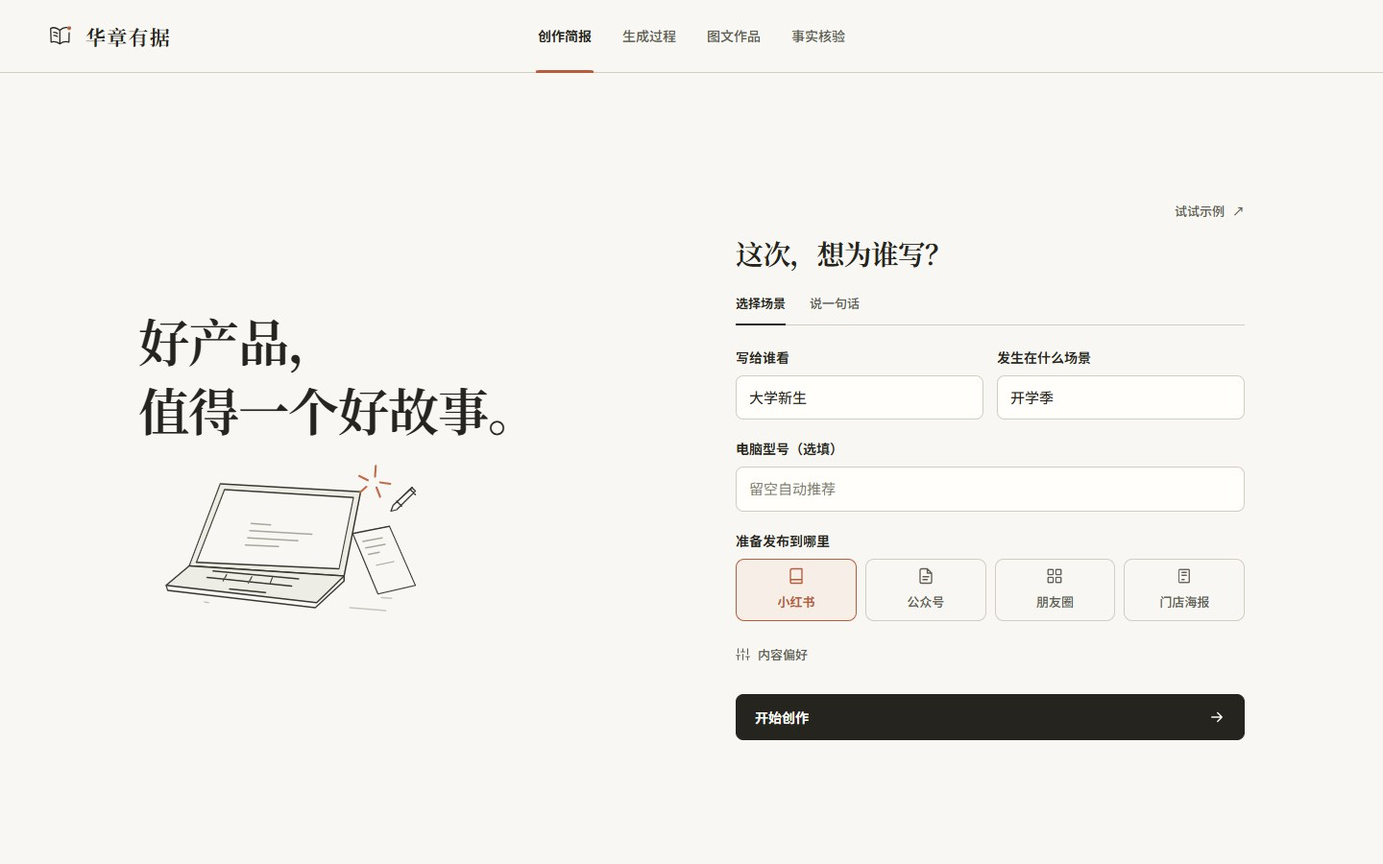
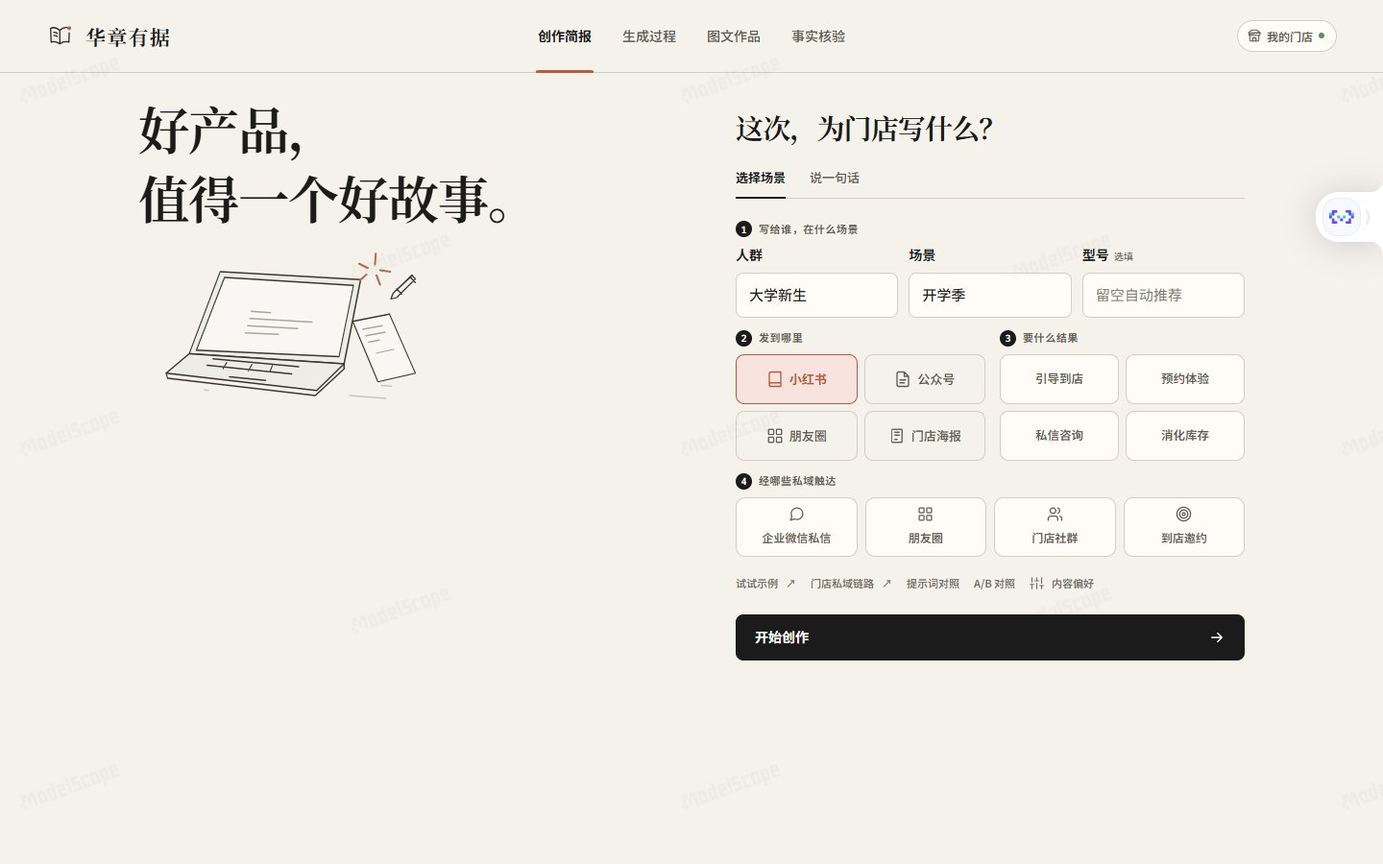
Update gallery screenshots from ModelScope and streamline README with feature-first presentation

diff --git a/src/mvp/web/about.html b/src/mvp/web/about.html
@@ -42,12 +42,14 @@
       <div><h2>02 看 Agent 接力</h2><p>单环节轮转展示场景、资料来源、内容策划、写作与审核，实时显示进度与耗时。</p></div>
       <div><h2>03 核对后带走</h2><p>检查事实来源和审核意见，再复制正文或导出含图片的 HTML。</p></div>
     </section>
-    <section aria-labelledby="gallery-title"><h2 id="gallery-title">真实界面</h2><p>以下为 v1.1 界面的真实截图，作品来自已完成的本地生成任务。</p>
+    <section aria-labelledby="gallery-title"><h2 id="gallery-title">真实界面</h2><p>以下为真实界面的截图，作品来自已完成的生成任务。</p>
       <figure><img src="/static/gallery/welcome.jpg" width="1440" height="900" alt="简约开屏：Logo、华章有据、一句话介绍与进入体验"><figcaption>独立开屏 · 简单认识项目，点击进入工作台。</figcaption></figure>
-      <figure><img src="/static/gallery/brief.jpg" width="1440" height="900" loading="lazy" alt="创作简报：选择人群、场景、平台与产品"><figcaption>创作简报 · 结构化选择与一句话输入都可用。</figcaption></figure>
-      <figure><img src="/static/gallery/workflow.jpg" width="1440" height="900" loading="lazy" alt="Bot 单环节轮转、实时进展与资料来源"><figcaption>生成过程 · 查看各阶段状态、真实耗时与执行详情。</figcaption></figure>
-      <figure><img src="/static/gallery/result.jpg" width="1440" height="900" loading="lazy" alt="实际生成的小红书图文作品与审核摘要"><figcaption>图文作品 · 平台版式预览，支持修改、复制与 HTML 导出。</figcaption></figure>
+      <figure><img src="/static/gallery/clarify.jpg" width="1440" height="900" loading="lazy" alt="需求追问：居中磨砂面板，选中即继续"><figcaption>需求追问 · 居中磨砂面板，单轮关键追问，选中即继续。</figcaption></figure>
+      <figure><img src="/static/gallery/brief.jpg" width="1440" height="900" loading="lazy" alt="创作简报：选择人群、场景、平台、经营目标与私域触点"><figcaption>创作简报 · 人群场景、发布平台、经营目标与私域触点一屏配置。</figcaption></figure>
+      <figure><img src="/static/gallery/workflow.jpg" width="1440" height="900" loading="lazy" alt="Bot 单环节轮转、实时进展与资料来源"><figcaption>生成过程 · 查看各阶段状态、实时耗时与执行详情。</figcaption></figure>
+      <figure><img src="/static/gallery/result.jpg" width="1440" height="900" loading="lazy" alt="实际生成的小红书图文作品与打磨选项"><figcaption>图文作品 · 平台版式预览，支持打磨修改、复制正文与 HTML 导出。</figcaption></figure>
       <figure><img src="/static/gallery/evidence.jpg" width="1440" height="900" loading="lazy" alt="产品事实引用与对应型号的登记配图"><figcaption>事实核验 · 产品事实标注来源，配图限定为对应型号的登记文件。</figcaption></figure>
+      <figure><img src="/static/gallery/store.jpg" width="1440" height="900" loading="lazy" alt="我的门店看板：经营数据、企微动态、私域触点与历史稿件"><figcaption>我的门店 · 门店看板、动态筛选、私域触点与历史稿件。</figcaption></figure>
     </section>
     <section class="about-note"><h2>模型与演示</h2><p>解析、推荐、证据选择、内容策划、写作、定向修订和文字审核统一使用魔搭 DeepSeek-V4.1-Flash-1017，评审使用独立上下文。生图和图片核验使用各自的专用模型。需求问询每轮只确认一点，最多两轮，选项贴合题目与实际场景。</p><p>演示账号由作者单独提供；访问者无需注册魔搭或配置 API。当前同时最多生成一个任务，默认总预算上限 240 秒，完成即返回；实际耗时随模型排队和修订变化，审核未完成会明确提示。</p><p>资料基准日为 2026-10-17。使用预置产品资料包，尚未接入 IMA 实时知识库。生成内容发布前仍需人工复核；本应用不会自动发布到社交平台。</p><p><a href="/">用演示账号进入体验 →</a></p></section>
   </main>

diff --git a/src/mvp/app.py b/src/mvp/app.py
@@ -88,7 +88,8 @@ async def access_control(request: Request, call_next):
     public = {"/healthz", "/about", "/login", "/api/login", "/static/style.css", "/static/login.css", "/static/fonts.css", "/static/typography.css", "/static/mobile.css",
               "/static/login.js", "/static/brand/logo-mark.svg", "/static/brand/app-icon.svg",
               "/static/gallery/welcome.jpg", "/static/gallery/brief.jpg", "/static/gallery/workflow.jpg",
-              "/static/gallery/result.jpg", "/static/gallery/evidence.jpg"}
+              "/static/gallery/result.jpg", "/static/gallery/evidence.jpg", "/static/gallery/clarify.jpg",
+              "/static/gallery/store.jpg"}
     public_font = request.url.path.startswith("/static/fonts/") and request.url.path.endswith((".woff2", "/OFL.txt"))
     if settings.AUTH_PASSWORD and request.url.path not in public and not public_font:
         if not valid_session(request.cookies.get("studio-session", "")):

diff --git a/README.md b/README.md
@@ -1,139 +1,99 @@
-# 华章有据
+# 华章有据 · 华为电脑营销图文工作台
 
-**从产品知识出发，生成有据可查的华为电脑营销图文。**
+> 从产品知识出发，为门店与私域生成有据可查的华为电脑营销图文。
 
-v1.2.0（version1.2）· 两轮问询与评审减负。[在线体验](https://ballcard-huazhang-youju.ms.show) · [图文介绍](https://ballcard-huazhang-youju.ms.show/about) · [魔搭主页](https://modelscope.cn/studios/BallCard/huazhang-youju) · [部署与配置](docs/deployment.md)
+[![在线体验](https://img.shields.io/badge/ModelScope-在线体验-blue?style=flat-square)](https://ballcard-huazhang-youju.ms.show)
+[![魔搭创空间](https://img.shields.io/badge/Studio-BallCard%2Fhuazhang--youju-624aff?style=flat-square)](https://modelscope.cn/studios/BallCard/huazhang-youju)
+[![图文介绍](https://img.shields.io/badge/About-图文介绍页-teal?style=flat-square)](https://ballcard-huazhang-youju.ms.show/about)
 
-## 最终状态 · 2026-10-23
+**体验入口**：[https://ballcard-huazhang-youju.ms.show](https://ballcard-huazhang-youju.ms.show)  
+公开演示环境，无需注册魔搭、无需登录账号，打开即用。
 
-- **线上体验**：<https://ballcard-huazhang-youju.ms.show>，公开演示，无需工作台账号或魔搭账号；创空间保持 `protected`，源码与资料包不公开。
-- **本次部署**：源提交 `67d15b7`，状态 Running；上线前 196 项 Python 与 34 项前端测试通过，并在 320/390/1440 宽度复验追问与续跑。
-- **线上真实任务**：小红书直接生成 49.4 秒 `ok`；未知型号两轮追问后返回补充提示；带回答续跑 66.9 秒 `ok_with_flags`（剩余意见为真实审核问题）。
-- **生图链路**：美国 VPS 网关与 worker 在线，魔搭 ↔ worker 心跳正常；但 2026-10-23 复检时 ChatGPT 上游返回 401（短期 access token 已被拒绝），GPT 生图需本人刷新令牌；刷新后运行 `python -X utf8 scripts/check_gpt_proxy.py` 自检。主链路失败时按配置降级到魔搭免费 `Qwen/Qwen-Image-Edit-2511`，成图标注“免费备选链路，待复核”。
-- **魔搭能否再挂反代**：不能作为 ChatGPT 出站代理。独立网络测试显示 `chatgpt.com`、`files.oaiusercontent.com` 请求失败，`auth.openai.com` 返回 403；Docker 创空间只暴露单个 Web 端口，也没有浏览器会话。详见 [网页生图私有链路](docs/web-image-proxy.md)。
+---
 
-> 本项目是华为比赛复赛的唯一项目仓库，后续功能、修复、发布和部署均以此仓库为准。产品资料不进入 GitHub，仅在本机和已授权的私有创空间保留部署副本。
+## 核心功能一览
 
-[切题检验与复赛优化分析](docs/competition-fit-review.md)（2026-10-21）：对照原始手册和老师补充的业务痛点，记录当前缺口、验证边界与优先级。本机手册和知识库原始压缩包归档于 `data/ref/`，不进入 Git。
+华章有据将华为电脑产品资料库、用户真实痛点场景与多渠道私域触点深度打通。通过多 Agent 协同编排，从需求澄清、内容策划、图文写作到事实核验与独立评审，确保营销内容的每一句话、每一张配图都有据可查。
 
-[复赛演示脚本与视频制作](docs/demo-video-script.md)：真实任务录屏、中文 AI 配音、同步字幕与重点推近；本机成品在 `output/demo/`，素材和缓存在 `data/demo-*`，均位于 D 盘。
+### 1. 独立开屏 · 极简进入
 
-v1.2 统一文字角色为魔搭 DeepSeek 1017，需求问询最多两轮；交叉评审先消解轻微意见与有据误报，只把重要未决交人工。答完后可直接点击固定的“提交评审结果”，继续修订或复审。整图海报、慢速回传和手机布局也一并更新。详见 [版本记录](CHANGELOG.md) 和 [编排与验证说明](docs/editorial-workflow.md)。
-
-全站字体现由网站提供：Noto Serif SC 负责标题，Noto Sans SC 负责正文与操作，统一字重和文字层级；HTML 导出会嵌入所需字体。详见 [字体规范](docs/typography.md)。
-
-下一版差异化已在本地接入：门店确认资料、文字素材、近期稿件和实际重合结果进入策划/写作/审核/修订。右上角「我的门店」提供经营看板与历史稿件，门店资料在「管理门店资料」中维护；默认一份成稿，可选择备用角度。案例与评委演示建议见 [差异化调查简报](docs/differentiation-report.md)，使用与验证边界见 [创作上下文说明](docs/creative-context.md)。线上版本随本次部署同步更新。
-
-提示词保留 A 原版与 B 新版，默认 A；「内容偏好」可切换，「生成 A/B 对照」在相同策划、证据、资料与模型下各写一稿并列查看。实验范围与运行方式见 [提示词双版本对照](docs/prompt-comparison.md)。
-
-## 快速体验
-
-打开[体验入口](https://ballcard-huazhang-youju.ms.show)，魔搭会自动跳转到全屏创空间页面。公开演示无需工作台账号、魔搭账号或模型密钥。点击「进入体验」后，选择「试试示例」，或写一句自己的需求，再开始创作。生成后可查看配图与事实来源、复制正文、导出含图片的 HTML。
-
-创空间使用 `protected` 模式：应用入口公开可访问，代码仓库与产品资料包隐藏。公开演示由 `PUBLIC_ACCESS=1` 显式关闭工作台登录；需要恢复账号时，在部署配置中配置 `AUTH_USERNAME` / `AUTH_PASSWORD` 并去掉该开关。
-
-## 界面一览
-
-交互增强另提供 [极简视觉原型](docs/ui-review.md)，运行应用后打开 `/static/ui-review/index.html`，查看创作简报、生成过程、图文作品与事实核验；原型使用明确标注的示例数据。
-
-以下为本地真实生成任务的截图；最新界面（居中追问、门店看板、核验页改版）以线上体验为准。
-
-**开屏 · 一句话认识华章有据**
+打开即用，无需配置 API 或繁琐登录。一句话了解项目定位，点击「进入体验」即可直达工作台。
 
 ![华章有据开屏](src/mvp/web/gallery/welcome.jpg)
 
-**需求追问 · 居中磨砂面板，选中即继续**
+### 2. 创作简报 · 四步一屏直达
 
-![需求追问](src/mvp/web/gallery/clarify.jpg)
-
-**创作简报 · 指定人群、场景与发布平台**
+支持结构化选择与一句话自然语言输入双模式。清晰串联「人群场景 → 发布平台 → 经营目标 → 私域触点」营销闭环链路，支持指定电脑型号或留空由 Agent 智能推荐。
 
 ![创作简报](src/mvp/web/gallery/brief.jpg)
 
-**Agent 接力 · 查看真实执行阶段与耗时**
+### 3. 需求追问 · 居中磨砂面板
+
+当用户输入需求存在模糊或冲突时，自动触发居中轻量追问面板。单轮聚焦关键问题，提供贴合实际使用场景的选项与自填入口，选中即自动继续，不打断创作心流。
+
+![需求追问](src/mvp/web/gallery/clarify.jpg)
+
+### 4. Agent 接力 · 实时编排与透明进展
+
+需求解析、选型推荐、证据匹配、内容策划、写作编辑、确定性规则检查、独立交叉评审与定向修订分工协作。手绘 Bot 轮转展示各环节真实操作、资料来源与实时耗时。
 
 ![Agent 生成过程](src/mvp/web/gallery/workflow.jpg)
 
-**图文作品 · 平台版式预览、复制与导出**
+### 5. 图文作品 · 原生平台版式预览与打磨
 
-![小红书图文作品](src/mvp/web/gallery/result.jpg)
+提供小红书、微信公众号、门店朋友圈、门店海报等原生平台视觉预览，支持电脑端与手机端自适应切换。支持「换种语气」、「突出卖点」一键二次打磨，支持正文复制与完整离线 HTML 导出。
 
-**事实核验 · 对照引用片段、型号与登记图片**
+![图文作品](src/mvp/web/gallery/result.jpg)
 
-![事实与配图溯源](src/mvp/web/gallery/evidence.jpg)
+### 6. 事实核验 · 每一句皆有据可查
 
-## 模型与资料
+生成内容中的每一项产品参数和性能描述，均精准回溯到知识库原始条目并展示适用条件；配图限定为对应型号的官方登记图片；独立审核记录与修改建议清晰展示，疑点一目了然。
 
-v1.2 部署统一文字角色模型；本机以 `.env` 为准。
+![事实核验](src/mvp/web/gallery/evidence.jpg)
 
-| 环节 | 当前部署模型 | 调用来源 |
-| --- | --- | --- |
-| 场景解析、推荐、证据选择与内容策划 | `deepseek-ai/DeepSeek-V4.1-Flash-1017` | 魔搭推理 API |
-| 图文写作与定向修订 | `deepseek-ai/DeepSeek-V4.1-Flash-1017` | 魔搭推理 API |
-| 独立审核 | `deepseek-ai/DeepSeek-V4.1-Flash-1017`，独立调用与上下文 | 魔搭推理 API |
-| 图片核验与海报视觉审核 | `Qwen/Qwen3.5-35B-A3B`，独立视觉调用 | 魔搭推理 API |
-| 数字、型号、图片登记、篇幅与合规规则 | 本地 Python 规则 | 无模型调用 |
+### 7. 我的门店 · 经营看板与私域联动
 
-部署版文本与独立成图审核走魔搭；门店海报经美国 VPS 的私有 worker 调用本人 ChatGPT 网页账号，使用网页账号的生图额度。2026-10-23 复检时 ChatGPT 上游返回 401，短期令牌需本人刷新；主链路明确失败时降级一次到魔搭免费 `Qwen/Qwen-Image-Edit-2511`，作品会标注“免费备选链路，待复核”，中文文字仍需人工核对。不调用 DeepSeek 官方 API。知识库使用已预置的产品资料包，图片描述已离线预计算。IMA 实时读取尚未实现，访问者不需要另配资料源或密钥。
+面向品牌门店店长与销售顾问，提供门店经营看板、企微与社群动态分类筛选、私域触点分布，以及真实历史生成稿件沉淀，助力门店日常精细化私域运营。
 
-## 运行
+![我的门店看板](src/mvp/web/gallery/store.jpg)
+
+---
+
+## 基本信息
+
+### 支持体裁与平台规范
+
+| 平台渠道 | 内容体裁 | 适用场景 | 输出特色 |
+| --- | --- | --- | --- |
+| **小红书** | 种草笔记 | 校园生活、日常通勤、痛点共鸣 | 原生左图右文/轮播，吸睛标题，标签推荐，精炼篇幅 |
+| **微信公众号** | 深度图文 | 选购攻略、出差拆解、功能测评 | 结构化章节排版，严谨引用，阅读节奏舒适 |
+| **门店朋友圈** | 动态图文 | 老客互动、日常答疑、到店邀约 | 亲切短文案，配图九宫格组合，突出行动入口 |
+| **门店海报** | 宣传海报 | 店内展示、商场立牌、活动通知 | 醒目大标题，核心卖点聚焦，视觉留白，支持高清下载 |
+
+### 模型架构与分工
+
+- **统一文字角色**：采用魔搭推理 API 驱动的 `deepseek-ai/DeepSeek-V4.1-Flash-1017`，负责场景解析、选型推荐、证据匹配、内容策划、写作编辑、定向修订与文字独立评审（评审采用独立上下文）。
+- **视觉核验与配图审核**：采用独立的多模态视觉模型 `Qwen/Qwen3.5-35B-A3B`，执行配图完整性与画面规范检查。
+- **确定性规则引擎**：本地 Python 规则引擎进行参数范围、型号存在性、图片登记一致性、合规词与平台字数硬性校验。
+
+---
+
+## 快速运行
 
 ```bash
+# 安装依赖
 pip install -r src/mvp/requirements.txt
-python -X utf8 -m src.mvp.app        # http://127.0.0.1:7860
+
+# 启动本地服务（默认端口 7860）
+python -X utf8 -m src.mvp.app
 ```
 
-也可以双击 `start.cmd`。首次运行将 `.env.example` 复制为 `.env`，放好 `data/kb` 资料包与 `data/cache/vision.json`。文字模型通过 OpenAI 兼容接口统一调用魔搭 DeepSeek 1017，需在服务端配置魔搭令牌。
+启动后在浏览器打开 `http://127.0.0.1:7860` 即可使用。
 
-启动前可运行 `python -X utf8 scripts/preflight.py`；加 `--check-model` 会真实调用三个角色模型检查 JSON 返回。部署专用配置可用环境变量 `APP_ENV_FILE=.env.deploy` 指定，不覆盖本机 `.env`。
+---
 
-## 功能
+## 使用须知与边界
 
-- **用户审核样板版（本地）**：A 保留原始提示词并保持默认，B 从审核通过的 11 个 PC 营销案例匹配和填槽，可指定样板并查看来源、备注及引用；支持概念演示标识和并排 A/B 对照。用法与验证边界见[用户审核样板版](docs/reviewed-patterns.md)。
-
-- **独立开屏**：Logo、名称与一句话描述依次出现，点击「进入体验」进入工作台；同一标签页刷新或恢复任务时跳过，支持减少动态效果。
-- **平台原生版式预览**：顶部切换电脑 / 手机并保留选择；电脑端小红书左图右文、公众号宽栏阅读、朋友圈桌面动态流，手机端保留图片轮播与九宫格，门店竖版海报维持原样。窄屏首次默认手机模式，电脑首次默认电脑模式。
-- **两种场景输入**：结构化选择人群与使用场景，或直接用一句话描述需求；机型留空时按需求推荐。
-- **一屏一页**：创作简报 → 生成过程 → 图文作品，事实核验单独查看；图文只在预览区内滚动，操作始终可见。
-- **悬浮追问**：需要补充信息时不再挤占生成过程页，改为居中悬浮对话逐条询问，过程页压暗成磨砂背景；每轮只问一个关键问题，每题自带 2–4 个贴合实际场景的选项和自写入口，选中即继续，不再多点一次确认；最多两轮，第二轮根据已答内容递进确认，型号消歧也计入上限。续跑时已完成环节定格，过程页从当前环节继续，不从头回放；两轮后能继续则将未知事项列入待确认；无法安全选型则说明原因并返回简报；切页、收起或刷新后已回答内容仍保留。
-- **轻量 Bot 轮转**：保留手绘 Bot，每次展示一个环节与加载动画，直接列出本次知识库文件、原文片段、图片和实际检查项；下一环节柔和浮现，上一环节向下退场。联网访问仅由真实工具事件触发，缓存单独标明；刷新恢复当前状态，动画不影响查看作品。
-- **场景示例**：内置常见场景，先填入简报，修改后再开始生成。
-- **证据优先**：产品事实只来自知识库，逐条标注来源；图片使用知识库登记图，缺整机图时允许联网检索华为官网。
-- **按需报价**：四个平台都允许在与任务相关且有对应官方价格快照时报价，保留配置、价格类型、核验日期和条件。默认不添加“不提价格”的用户限制；用户明确要求不提时遵从，缺依据不编造，无关价格不追加提醒。
-- **图片画面分类与联网补图**：整机优先，首图必须是整机图；缺图时优先读取已登记的华为官方产品页，必要时通过联网搜索发现官网页面。仅采用完整型号匹配、产品专属路径、尺寸与视觉检查均通过的整机图，保存原网页、原图 URL、核验时间及文件摘要；七天内复用缓存，下载与导出走本地已核验文件。来源或画面无法确认、联网失败、视觉模型不支持时仍显示缺图。可用 `WEB_IMAGE_SEARCH=0` 关闭，`IMAGE_VERIFY_MODEL` 默认使用支持视觉输入的 Qwen，接口独立于文字模型。
-- **策划—核验—定向修订—复核**：完整证据与适用条件分开管理；规则检查与独立评审并行，问题推动最多一次修改，必要时补查本型号，实际终稿未通过则保留待复核。
-- **平台短文案**：小红书 100–220 字、公众号 240–480 字，按平台原生图文顺序输出；总字数、单段、标题与图注上限均参与核验。写法与来源见 [风格说明](docs/writing-style.md)。
-- **小范围展示部署**：可选的 Cookie 登录、单实例并发限制、SQLite 保存任务与结果；重启后保留已完成作品，未完成任务明确标记为中断。
-- **模型分工**：FAST / WRITER / JUDGE 统一使用魔搭 `deepseek-ai/DeepSeek-V4.1-Flash-1017`，覆盖解析、推荐、策划、写作、修订和文字评审；评审上下文独立。生图及图片核验使用专用模型，密钥只保存在服务端。
-- **评审分流**：文字稿的重要争议由 DeepSeek 1017 在独立上下文交叉核对，撤销事实风险需通过原句、引用和完整条件校验。轻微表达建议不阻塞交付；确定错误沿用一次自动修订，剩余错误可一键继续修订，审核中断可重试。仅重要未决交人工，同一具体根因合并并保留全部位置与原始意见。
-- **门店整图海报与用户终审**：使用已由用户选定的两张内置视觉参考，生成整张海报，再核对成图文字、产品外观与场景。重要视觉争议独立看图复核，文字转录和尺寸检查保留。支持 PNG 下载、手动重生和超时后继续等待原任务；仅重要未决事项需要人工选择修订、复审、采用或暂缓，人工裁定与自动审核分开记录。配置与接口见[海报生成说明](docs/poster-generation.md)。[魔搭与美国 VPS 的私有出图链路](docs/web-image-proxy.md)保留，2026-10-23 复检发现 ChatGPT 上游令牌被拒（401），待刷新；失败时降级魔搭免费生图，产品外观细节仍需终审。
-
-## 速度
-
-- 首发部署记录的小红书样例约 30 秒。默认总预算现为 240 秒，覆盖质量模型的写作、独立评审及一次修订/复审；这是耗时上限，完成即返回。90 秒会截断部分质量档评审，约一分钟的目标尚未达到；真实耗时通过 [三版本对照脚本](scripts/evaluate_editorial.py) 记录。
-- 文字角色统一使用 DeepSeek 1017；内容偏好里只保留传播目标与额外限制，提示词 A/B 收进「实验设置」，不再提供没有实际差异的档位下拉。重复输入可复用需求与策划缓存；资料和提示词版本变化后失效，写作和审核仍真实调用模型。
-
-## 目录
-
-```text
-src/mvp/
-  app.py          FastAPI 服务
-  pipeline.py     编排流程、核验、缓存
-  kb.py           知识库读取与图片索引
-  verify.py       确定性核验
-  llm.py          模型调用
-  tag_images.py   图片视觉标签生成
-  config/         场景与平台策略表
-  prompts/        各环节提示词
-  web/            前端（无构建步骤）
-data/kb/          知识库本地副本（gitignore）
-data/cache/       视觉标签缓存（gitignore）
-```
-
-## 说明
-
-- `data/`、`.env`、`.env.deploy`、`model.txt` 均不进入 GitHub；换机器时需要重新放置资料与密钥。魔搭部署资料只同步到指定私有创空间。
-- v1.2 使用本地资料包；IMA 实时读取、ZIP 上传、管理员配置面板与多用户隔离尚未实现。
-- 当前为公开演示（`PUBLIC_ACCESS=1`），不需要工作台账号；生成后可复制正文、导出含图片的 HTML，不会自动发布到社交平台。
-- 没有依据的价格、补贴、库存、销量、奖项不得写入稿件；发布前以官方渠道为准。
-- 图片视觉标签可用 `python -X utf8 -m src.mvp.tag_images` 重新生成，默认调用独立的视觉核验模型。
+- **知识库基准**：当前预置知识库以华为官方公开产品资料与规格为准。
+- **免责与人工复核**：生成内容用于辅助营销创作，价格、促销活动、库存与具体销售政策受时间及地域影响，最终发布前应以华为官方渠道与门店实际情况为准。
+- **安全与合规**：本系统不自动发布内容至任何第三方平台，确保所有输出经过人工最终确认。

diff --git a/deploy/modelscope/README.md b/deploy/modelscope/README.md
@@ -1,74 +1,83 @@
-# 华章有据
+# 华章有据 · 华为电脑营销图文工作台
 
-[图文介绍与真实截图](https://ballcard-huazhang-youju.ms.show/about) · [进入体验](https://ballcard-huazhang-youju.ms.show)
+> 从产品知识出发，为门店与私域生成有据可查的华为电脑营销图文。
 
-**v1.2.0（version1.2）· 从产品知识出发，生成有据可查的华为电脑营销图文。**
+[在线体验入口](https://ballcard-huazhang-youju.ms.show) · [图文介绍页](https://ballcard-huazhang-youju.ms.show/about) · [GitHub 项目仓库](https://github.com/BallCard/huawei-pc-marketing-agent)
 
-华章有据把产品资料、用户场景和平台版式连接起来：输入目标人群与使用场景，生成适配小红书、公众号、朋友圈或门店海报的营销图文，同时保留事实出处、图片登记与独立审核记录。
+**体验地址**：[https://ballcard-huazhang-youju.ms.show](https://ballcard-huazhang-youju.ms.show)  
+公开演示环境，无需注册魔搭、无需工作台账号，打开即用。创空间采用保护模式，应用入口开放，源码与资料包保持隐藏。
 
-[进入独立体验页](https://ballcard-huazhang-youju.ms.show) · [GitHub 项目](https://github.com/BallCard/huawei-pc-marketing-agent)
+---
 
-面向队友及评委的公开演示，打开链接即可使用。无需注册魔搭、无需工作台账号，也无需填写模型 API。创空间采用保护模式，应用入口开放，源码与资料包保持隐藏。GitHub 仓库按作者当前授权范围开放。
+## 核心功能一览
 
-## 最近更新 · 2026-10-23
+华章有据将华为电脑产品资料库、用户真实痛点场景与多渠道私域触点深度打通。通过多 Agent 协同编排，从需求澄清、内容策划、图文写作到事实核验与独立评审，确保营销内容的每一句话、每一张配图都有据可查。
 
-- 需求确认改为视口正中的磨砂面板，背景压暗并锁住页面焦点，问题不再被忽略；点遮罩或 Esc 收起到右下角，再点恢复。
-- 选中选项即继续，不再要求额外点一次「继续创作」；两轮之间仍留出勾选反馈。
-- 追问后续跑不再从头回放过程页：已完成的环节定格，只继续新环节，计时也不倒退。
-- 「内容偏好」移除无实际差异的创作模型下拉，提示词 A/B 收进默认收起的「实验设置」；事实核验空态改为三段预告。
-- 公开演示取消工作台登录；应用保持 `protected` 模式，源码与资料包不公开。
+### 1. 独立开屏 · 极简进入
 
-## version1.2 更新 · 2026-10-21
-
-- 文字模型统一为魔搭 DeepSeek 1017；问询每轮只确认一点，最多两轮，选项随实际问题递进。
-- 重要争议先交叉核对，轻微建议不阻塞；确定错误自动修订，仅重要未决交人工，同根因合并展示。
-- 评审答完后点击底部固定的“提交评审结果”，可直接继续修改或复审；返回、重开与失败重试均保留答案。
-- 整图海报支持专用出图通道、PNG 下载、视觉复核与手动重生；慢速回传可继续等待原任务，手机布局同步改进。
-
-完整记录见 [GitHub 更新说明](https://github.com/BallCard/huawei-pc-marketing-agent/releases/tag/v1.2.0)。
+打开即用，无需配置 API 或繁琐登录。一句话了解项目定位，点击「进入体验」即可直达工作台。
 
 ![华章有据开屏](https://ballcard-huazhang-youju.ms.show/static/gallery/welcome.jpg)
 
-## 用一分钟认识它
+### 2. 创作简报 · 四步一屏直达
 
-1. 打开链接后点击「进入体验」，从场景示例开始，或直接说一句需求。
-2. 选择发布平台；指定电脑型号，或留空按需求推荐。
-3. 观察 Bot 单环节轮转，查看实际场景、资料来源、处理结果与实时进度。
-4. 阅读图文作品，核对事实与配图；有疑点时按审核提示复核，再复制或导出。
-
-## 创作简报
-
-结构化输入和一句话输入都可用。小红书、公众号、朋友圈和门店海报使用各自的图文结构与篇幅限制。
+支持结构化选择与一句话自然语言输入双模式。清晰串联「人群场景 → 发布平台 → 经营目标 → 私域触点」营销闭环链路，支持指定电脑型号或留空由 Agent 智能推荐。
 
 ![创作简报](https://ballcard-huazhang-youju.ms.show/static/gallery/brief.jpg)
 
-## Agent 接力
+### 3. 需求追问 · 居中磨砂面板
 
-内容策划、创作编辑与独立评审分工协作，由代码控制流程。过程页保留手绘 Bot，每次展示一个环节的真实操作、资料来源与加载状态；横向进展随实际执行推进。审核问题最多触发一次定向修订，之后复核实际终稿。
+当用户输入需求存在模糊或冲突时，自动触发居中轻量追问面板。单轮聚焦关键问题，提供贴合实际使用场景的选项与自填入口，选中即自动继续，不打断创作心流。
 
-![生成过程](https://ballcard-huazhang-youju.ms.show/static/gallery/workflow.jpg)
+![需求追问](https://ballcard-huazhang-youju.ms.show/static/gallery/clarify.jpg)
 
-## 平台图文作品
+### 4. Agent 接力 · 实时编排与透明进展
 
-生成后提供平台版式预览、按指令重新生成、复制正文与含图片的 HTML 导出。以下为 v1.1 界面的真实截图，作品来自已完成的本地生成任务。
+需求解析、选型推荐、证据匹配、内容策划、写作编辑、确定性规则检查、独立交叉评审与定向修订分工协作。手绘 Bot 轮转展示各环节真实操作、资料来源与实时耗时。
+
+![Agent 生成过程](https://ballcard-huazhang-youju.ms.show/static/gallery/workflow.jpg)
+
+### 5. 图文作品 · 原生平台版式预览与打磨
+
+提供小红书、微信公众号、门店朋友圈、门店海报等原生平台视觉预览，支持电脑端与手机端自适应切换。支持「换种语气」、「突出卖点」一键二次打磨，支持正文复制与完整离线 HTML 导出。
 
 ![图文作品](https://ballcard-huazhang-youju.ms.show/static/gallery/result.jpg)
 
-## 事实与配图有据可查
+### 6. 事实核验 · 每一句皆有据可查
 
-产品事实标注资料片段，图片限定为对应型号的登记文件。没有整机图时明确提示，不拿其他型号图片代替。数字、型号、合规与篇幅规则先检查，独立审核再看最终稿；存在异议时保留人工复核提示。
+生成内容中的每一项产品参数和性能描述，均精准回溯到知识库原始条目并展示适用条件；配图限定为对应型号的官方登记图片；独立审核记录与修改建议清晰展示，疑点一目了然。
 
 ![事实核验](https://ballcard-huazhang-youju.ms.show/static/gallery/evidence.jpg)
 
-## 模型分工
+### 7. 我的门店 · 经营看板与私域联动
 
-- DeepSeek-V4.1-Flash-1017：统一负责场景解析、选型推荐、证据选择、内容策划、写作、定向修订与文字审核；评审使用独立上下文。
-- 生图与图片核验使用各自的专用模型。需求确认每轮一个关键问题，最多两轮，选项随问题生成，第二轮依据已有回答递进。
-- 文字与视觉核验请求通过魔搭推理 API；海报出图按专用通道配置执行。访问者无需填密钥。
-- 产品资料来自预置资料包，视觉标签已离线预计算。本版尚未接入 IMA 实时知识库。
+面向品牌门店店长与销售顾问，提供门店经营看板、企微与社群动态分类筛选、私域触点分布，以及真实历史生成稿件沉淀，助力门店日常精细化私域运营。
 
-## 演示说明
+![我的门店看板](https://ballcard-huazhang-youju.ms.show/static/gallery/store.jpg)
 
-当前为公开演示，无需工作台账号；同一时间最多生成一个任务；如提示正在创作，稍后再试。默认总预算上限 240 秒，完成即返回，实际受模型排队和修订影响；审核未完成或仍有问题时保留明确状态。全站使用随应用提供的 Noto 字体，HTML 导出嵌入所需字体。
+---
 
-生成内容用于辅助创作，发布前仍需人工复核产品版本、软件适配及销售条件。不会自动发布到小红书或微信。知识库事实基准日：2026-10-17。
+## 基本信息
+
+### 支持体裁与平台规范
+
+| 平台渠道 | 内容体裁 | 适用场景 | 输出特色 |
+| --- | --- | --- | --- |
+| **小红书** | 种草笔记 | 校园生活、日常通勤、痛点共鸣 | 原生左图右文/轮播，吸睛标题，标签推荐，精炼篇幅 |
+| **微信公众号** | 深度图文 | 选购攻略、出差拆解、功能测评 | 结构化章节排版，严谨引用，阅读节奏舒适 |
+| **门店朋友圈** | 动态图文 | 老客互动、日常答疑、到店邀约 | 亲切短文案，配图九宫格组合，突出行动入口 |
+| **门店海报** | 宣传海报 | 店内展示、商场立牌、活动通知 | 醒目大标题，核心卖点聚焦，视觉留白，支持高清下载 |
+
+### 模型架构与分工
+
+- **统一文字角色**：采用魔搭推理 API 驱动的 `deepseek-ai/DeepSeek-V4.1-Flash-1017`，负责场景解析、选型推荐、证据匹配、内容策划、写作编辑、定向修订与文字独立评审（评审采用独立上下文）。
+- **视觉核验与配图审核**：采用独立的多模态视觉模型 `Qwen/Qwen3.5-35B-A3B`，执行配图完整性与画面规范检查。
+- **确定性规则引擎**：本地 Python 规则引擎进行参数范围、型号存在性、图片登记一致性、合规词与平台字数硬性校验。
+
+---
+
+## 使用须知与边界
+
+- **知识库基准**：当前预置知识库以华为官方公开产品资料与规格为准。
+- **免责与人工复核**：生成内容用于辅助营销创作，价格、促销活动、库存与具体销售政策受时间及地域影响，最终发布前应以华为官方渠道与门店实际情况为准。
+- **安全与合规**：本系统不自动发布内容至任何第三方平台，确保所有输出经过人工最终确认。
